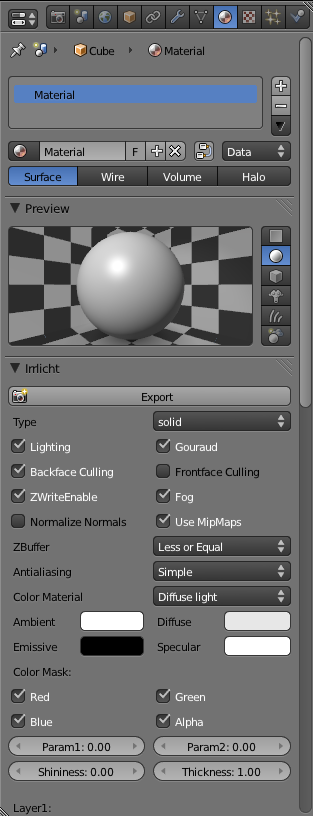
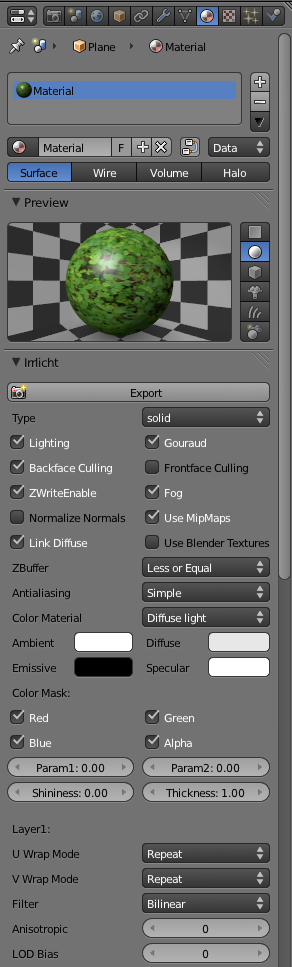
irrb doc updates.

diff --git a/tools/irrb/doc/irrbtheme/static/irrbdoc.css b/tools/irrb/doc/irrbtheme/static/irrbdoc.css
@@ -362,3 +362,7 @@ div.irrb-left {
 	-webkit-box-shadow: 5px 5px 10px #000000;
 	-moz-box-shadow: 5px 5px 10px #000000;
 }
+
+div.irrb-padleft140 {
+	margin-left: 180px;
+	padding-left: 140px;}

diff --git a/tools/irrb/io_export_irrlicht.py b/tools/irrb/io_export_irrlicht.py
@@ -2013,6 +2013,9 @@ def _registerIrrbProperties():
         step=3, precision=2,
         options=emptySet)
 
+    bpy.types.Material.irrb_use_blender_textures = BoolProperty(name='Use Blender Textures',
+        description='Use images from Blender texture layers', default=False, options=emptySet)
+
     wrap_options = (('ETC_REPEAT', 'Repeat', ''),
         ('ETC_CLAMP', 'Clamp', ''),
         ('ETC_CLAMP_TO_EDGE', 'Clamp To Edge', ''),
@@ -2445,6 +2448,30 @@ class iMaterial:
     #=========================================================================
     def setTextures(self, face):
         
+        bMaterial = self.bmaterial
+        
+        if bMaterial and bMaterial.irrb_use_blender_textures:
+            tslots = [bMaterial.texture_slots[i] for i in range(len(bMaterial.texture_slots)) \
+                      if bMaterial.texture_slots[i]]
+    
+            layerNumber = 1
+            for i in range(len(tslots)):
+                tslot = tslots[i]
+                tex = tslot.texture
+                if (tex.type == 'IMAGE') and (tslot.texture_coords == 'UV') and \
+                   (tslot.uv_layer != '') and (tex.image != None):
+                    self.bimages.append(tex.image)
+                    layerName = 'Layer{}'.format(layerNumber)
+                    try:
+                        texFile = self.exporter.getImageFileName(tex.image, 0)
+                    except:
+                        texFile = '** error accessing {} **'.format(tex.image.name)
+                    self.attributes[layerName]['Texture'] = texFile
+                    layerNumber += 1
+                    if layerNumber >= 5:
+                        break;
+            return
+            
         # count images assigned to uv layers
         uvImageCount = 0
         for layerNumber in range(len(self.bmesh.uv_textures)):
@@ -2466,32 +2493,6 @@ class iMaterial:
                     layerName = 'Layer{}'.format(layerNumber + 1)
                     self.attributes[layerName]['Texture'] = texFile
             return        
-        
-        # no uv images so look for images in texture slots
-        if self.bmaterial == None:
-            return
-        
-        bMaterial = self.bmaterial
-        
-        tslots = [bMaterial.texture_slots[i] for i in range(len(bMaterial.texture_slots)) \
-                  if bMaterial.texture_slots[i]]
-
-        icount = 0
-        for i in range(len(tslots)):
-            tslot = tslots[i]
-            tex = tslot.texture
-            if (tex.type == 'IMAGE') and (tslot.texture_coords == 'UV') and \
-               (tslot.uv_layer != '') and (tex.image != None):
-                self.bimages.append(tex.image)
-                layerName = 'Layer{}'.format(layerNumber + 1)
-                try:
-                    texFile = self.exporter.getImageFileName(tex.image, 0)
-                except:
-                    texFile = '** error accessing {} **'.format(tex.image.name)
-                self.attributes[layerName]['Texture'] = texFile
-                icount += 1
-                if icount >= 5:
-                    break;
         
 #=============================================================================
 #                                i S c e n e
@@ -5791,6 +5792,7 @@ class IrrbMaterialProps(bpy.types.Panel):
 
         row = layout.row()
         row.prop(mat, 'irrb_link_diffuse')
+        row.prop(mat, 'irrb_use_blender_textures')
         
         row = layout.row()
         row.label('ZBuffer')
@@ -5835,7 +5837,7 @@ class IrrbMaterialProps(bpy.types.Panel):
         row = layout.row()
         row.prop(mat, 'irrb_shininess')
         row.prop(mat, 'irrb_thickness')
-
+        
         def layoutLayer(layer):
             layout.separator()
             row = layout.row()

diff --git a/tools/irrb/doc/material_panel.rst b/tools/irrb/doc/material_panel.rst
@@ -5,25 +5,58 @@ Material Panel
 .. toctree::
    :maxdepth: 2
 
-The irrB material panel gives explicit control over every available Irrlicht material
+The **irrB** material panel gives explicit control over every available Irrlicht material
 property. Mapping from a Blender material to an Irrlicht is difficult at
-best so irrB takes the approach of letting the user control the settings.
+best so **irrB** takes the approach of letting the user control the settings.
 In cases where there is a direct match between a Blender material property
-and an Irrlicht material property, irrB will use the Blender property and
-include an additional panel element in the irrB material panel. 
+and an Irrlicht material property, **irrB** will use the Blender property and
+include an additional panel element in the **irrB** material panel. 
 
 .. container:: irrb-left
 
    .. image:: _static/img010.png 
 
 For example, Blender and Irrlicht both have a "Diffuse" material attribute.
-You can set the Diffuse color using Blender's GUI element, or in the irrB
+You can set the Diffuse color using Blender's GUI element, or in the **irrB**
 material panel. 
 
-The irrB material panel contains a property that corresponds to
+The **irrB** material panel contains a property that corresponds to
 every field that is available in Irrlicht's `SMaterial <http://irrlicht.sourceforge.net/docu/classirr_1_1video_1_1_s_material.html>`_ 
 and `SMaterialLayer <http://irrlicht.sourceforge.net/docu/classirr_1_1video_1_1_s_material_layer.html>`_ 
 data structures.  These structures are used to programatically define Irrlicht 
 Material settings.
+
+----
+
+Irrlicht Materials
+==================
+Currently, Irrlicht contains 24 pre-defined material "types".  These materials range
+from a simple "solid" material to  a "transparent with parallax mapping" material.
+
+In addition to the 24 pre-defined material types, Irrlicht also allows you to create 
+your own custom material type(s).
+
+Irrlicht supports multiple materials per mesh and **irrB** supports exporting meshes
+with multiple materials as well. 
+
+.. container:: irrb-padleft140
+
+	In Blender, you assign multiple materials to a mesh by:
+	
+		1. Selecting the mesh.
+			
+		2. Create a Material Slot and name the new material.
+			
+		3. Assign the newly created material to the appropriate faces in the mesh.
+	
+Each Blender Material that is created maintains its own set of related Irrlicht (**irrB**)
+Material properties (type, diffuse, layers, etc.).    
+
+---- 
+
+Irrlicht Material Texture Layers
+================================
+Irrlicht allows up to four texture layers (`SMaterialLayer <http://irrlicht.sourceforge.net/docu/classirr_1_1video_1_1_s_material_layer.html>`_) 
+to be defined per material.
 
 
